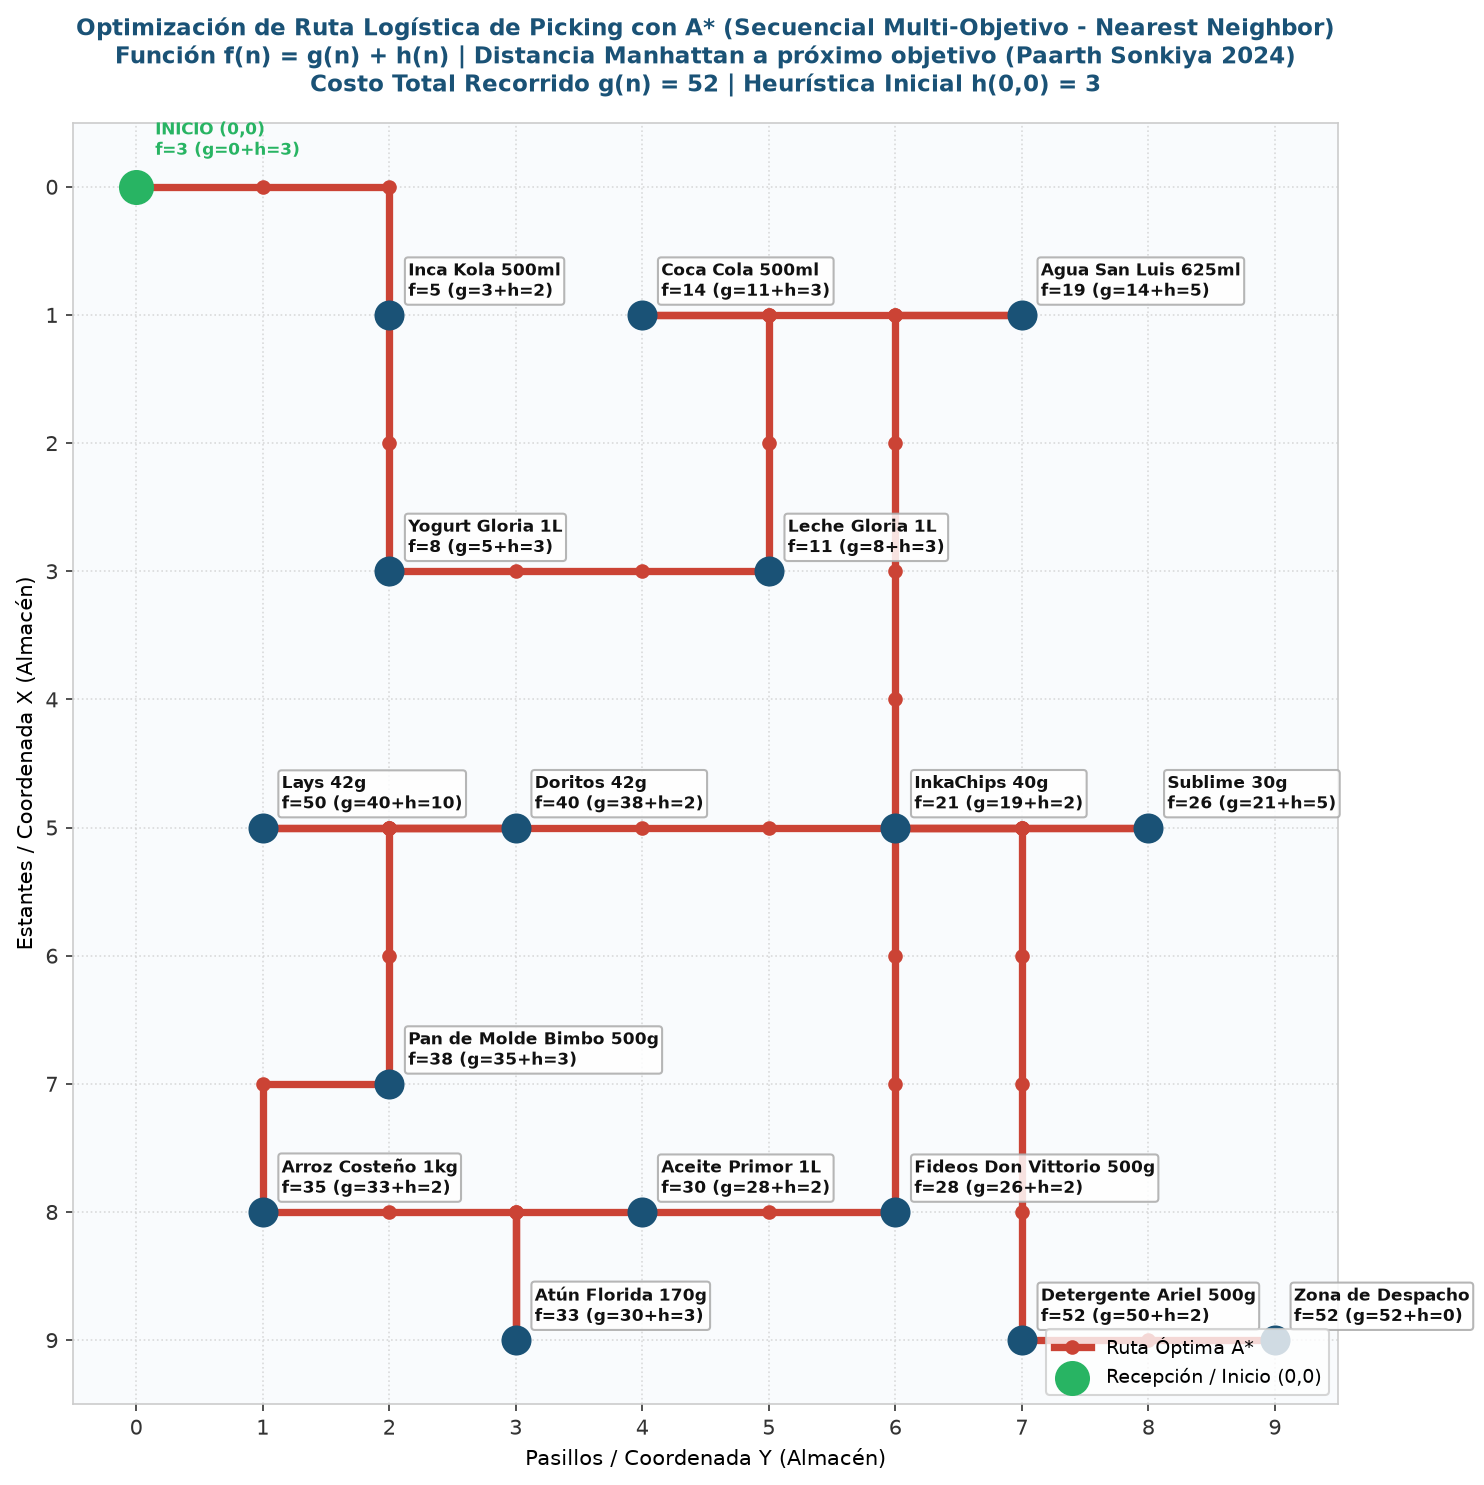
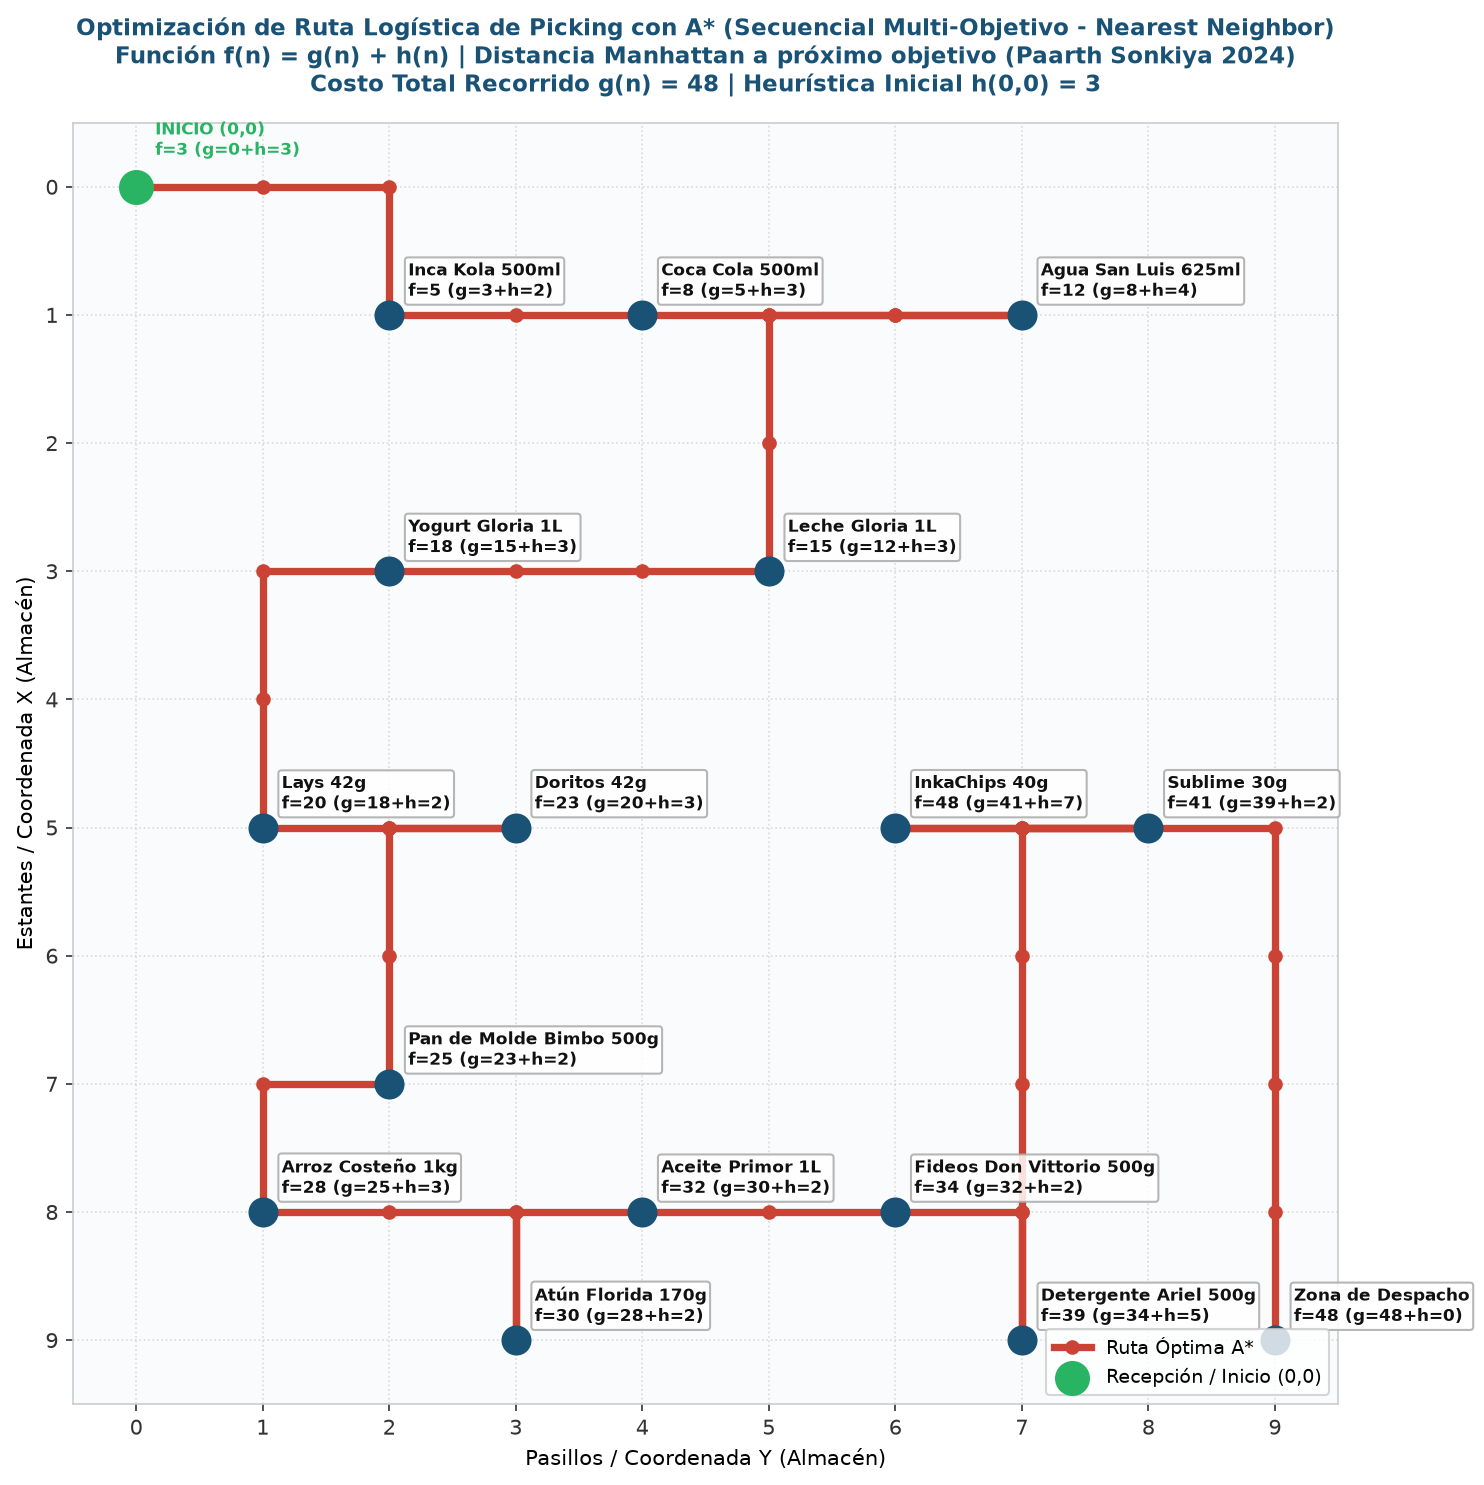
reportes, mapa de calor final

diff --git a/modulos/reportador.py b/modulos/reportador.py
@@ -1038,4 +1038,104 @@ def graficar_resultados_poda_alfa_beta(resultados_poda, directorio="reportes"):
     fig_cons.savefig(os.path.join(subcarpeta_poda, "poda_alfa_beta_consolidado.png"), dpi=150, bbox_inches="tight")
     plt.close(fig_cons)
 
+#FINAL 
+def graficar_mapa_calor_quiebres_final(df_inventario_completo, directorio="reportes"):
+    """
+    Genera un mapa de calor que muestra los quiebres de stock finales (reales/simulados)
+    que ocurrieron durante la simulación de Junio a Agosto 2026.
+    
+    El eje Y muestra los productos y el eje X muestra las 13 semanas de la simulación.
+    Las celdas muestran la cantidad de días con quiebre (stock_fisico == 0 o ventas_perdidas_estimadas > 0)
+    en esa semana.
+    """
+    asegurar_directorio_reportes(directorio)
+    
+    # Filtrar solo el periodo de simulación (Junio a Agosto 2026)
+    df_sim = df_inventario_completo[
+        (df_inventario_completo["fecha"] >= pd.to_datetime("2026-06-01")) & 
+        (df_inventario_completo["fecha"] <= pd.to_datetime("2026-08-31"))
+    ].copy()
+    
+    if df_sim.empty:
+        return
+        
+    # Calcular a qué semana pertenece cada fecha (0 a 12)
+    start_date = pd.to_datetime("2026-06-01")
+    df_sim["dias_desde_inicio"] = (df_sim["fecha"] - start_date).dt.days
+    df_sim["semana_num"] = df_sim["dias_desde_inicio"] // 7
+    # Limitar el número de semanas a 13
+    df_sim.loc[df_sim["semana_num"] > 12, "semana_num"] = 12
+    
+    # Crear etiquetas de fecha para las semanas
+    etiquetas_semanas = []
+    for w in range(13):
+        w_start = start_date + pd.Timedelta(days=w * 7)
+        if w == 12:
+            w_end = pd.to_datetime("2026-08-31")
+        else:
+            w_end = w_start + pd.Timedelta(days=6)
+        etiquetas_semanas.append(f"Sem {w+1:02d}\n({w_start.strftime('%d/%m')}-{w_end.strftime('%d/%m')})")
+        
+    # Determinar si el día tuvo quiebre: stock_fisico == 0 o ventas_perdidas_estimadas > 0
+    df_sim["stock_fisico"] = pd.to_numeric(df_sim["stock_fisico"], errors="coerce").fillna(0.0)
+    df_sim["ventas_perdidas_estimadas"] = pd.to_numeric(df_sim["ventas_perdidas_estimadas"], errors="coerce").fillna(0.0)
+    
+    df_sim["es_quiebre"] = (df_sim["stock_fisico"] == 0.0) | (df_sim["ventas_perdidas_estimadas"] > 0.0)
+    
+    # Agrupar por producto y semana para contar los días con quiebre
+    quiebres_agrupados = df_sim.groupby(["producto_id", "producto_nombre", "semana_num"])["es_quiebre"].sum().reset_index()
+    
+    # Pivotar los datos
+    matriz_pivot = quiebres_agrupados.pivot(
+        index="producto_nombre", 
+        columns="semana_num", 
+        values="es_quiebre"
+    ).fillna(0.0)
+    
+    # Asegurar el orden de los productos por ID
+    orden_prod = df_sim.groupby("producto_nombre")["producto_id"].first().sort_values().index
+    matriz_pivot = matriz_pivot.reindex(orden_prod).fillna(0.0)
+    
+    # Crear la figura
+    fig, ax = plt.subplots(figsize=(14, 9))
+    fig.patch.set_facecolor("#FFFFFF")
+    
+    # Dibujar el heatmap (escala amarillo a rojo)
+    im = ax.imshow(matriz_pivot.values, cmap="YlOrRd", vmin=0, vmax=7, aspect="auto")
+    
+    # Configurar ejes
+    ax.set_yticks(np.arange(len(matriz_pivot.index)))
+    ax.set_yticklabels(matriz_pivot.index, fontsize=10, fontweight="bold")
+    ax.set_xticks(np.arange(13))
+    ax.set_xticklabels(etiquetas_semanas, fontsize=9)
+    
+    # Agregar valores de texto en cada celda
+    for i in range(len(matriz_pivot.index)):
+        for j in range(13):
+            val = int(matriz_pivot.values[i, j])
+            color_texto = "white" if val >= 4 else "black"
+            ax.text(j, i, f"{val}d", ha="center", va="center", 
+                    color=color_texto, fontweight="bold" if val > 0 else "normal", fontsize=9.5)
+            
+    ax.set_title("Mapa de Calor: Días con Quiebre de Stock por Semana (Simulación Junio - Agosto 2026)", 
+                 fontsize=14, fontweight="bold", color=COLOR_PRIMARIO, pad=20)
+    
+    # Agregar barra de color
+    cbar = fig.colorbar(im, ax=ax, orientation="horizontal", pad=0.12, shrink=0.6)
+    cbar.set_label("Número de días con quiebre en la semana (0 a 7 días)", fontsize=11, fontweight="bold")
+    cbar.set_ticks(np.arange(8))
+    
+    # Subtítulo explicativo
+    fig.text(0.5, 0.02, 
+             "Nota: Se considera quiebre si el stock físico al final del día es 0 o si se registraron ventas perdidas estimadas en el día.", 
+             ha="center", fontsize=9.5, color="#555555", style="italic")
+             
+    plt.tight_layout()
+    
+    # Guardar en la carpeta 04_alertas_y_eventos
+    ruta_salida = os.path.join(directorio, "04_alertas_y_eventos", "mapa_calor_quiebres_final.png")
+    fig.savefig(ruta_salida, dpi=150, bbox_inches="tight")
+    plt.close(fig)
+
+
 

diff --git a/api/main.py b/api/main.py
@@ -393,4 +393,21 @@ def endpoint_eventos_especiales():
     raise HTTPException(status_code=500, detail="Error al generar gráfico de eventos especiales")
 
 
[email redacted]("/mapa-calor-final", summary="Gráfico PNG del Mapa de Calor de Quiebres de Stock Final (Simulación)")
+def endpoint_mapa_calor_final():
+    """Devuelve el gráfico PNG del mapa de calor con los quiebres de stock ocurridos en la simulación."""
+    df_inv = STATE["df_inventario"]
+    if df_inv is None:
+        raise HTTPException(status_code=503, detail="Sistema inicializando datos...")
+    
+    # Generar o actualizar el gráfico
+    reportador.graficar_mapa_calor_quiebres_final(df_inv, directorio="reportes")
+    file_path = os.path.join(ROOT_DIR, "reportes", "04_alertas_y_eventos", "mapa_calor_quiebres_final.png")
+    if os.path.exists(file_path):
+        with open(file_path, "rb") as f:
+            return Response(content=f.read(), media_type="image/png")
+    raise HTTPException(status_code=500, detail="Error al generar mapa de calor final")
+
+
+
 

diff --git a/principal.py b/principal.py
@@ -597,6 +597,8 @@ def ejecutar_agente():
     reportador.graficar_arbol_categorias_bfs_dfs(busqueda_res)
     reportador.graficar_ruta_reabastecimiento_astar(astar_res)
     reportador.graficar_resultados_poda_alfa_beta(resultados_poda_alfa_beta)
+    reportador.graficar_mapa_calor_quiebres_final(datos_inventario_completos)
+    
     
     generar_reporte_escrito_final(
         inventario_final_agosto, alertas_septiembre, diccionario_predicciones_futuras, datos_ventas_completos,